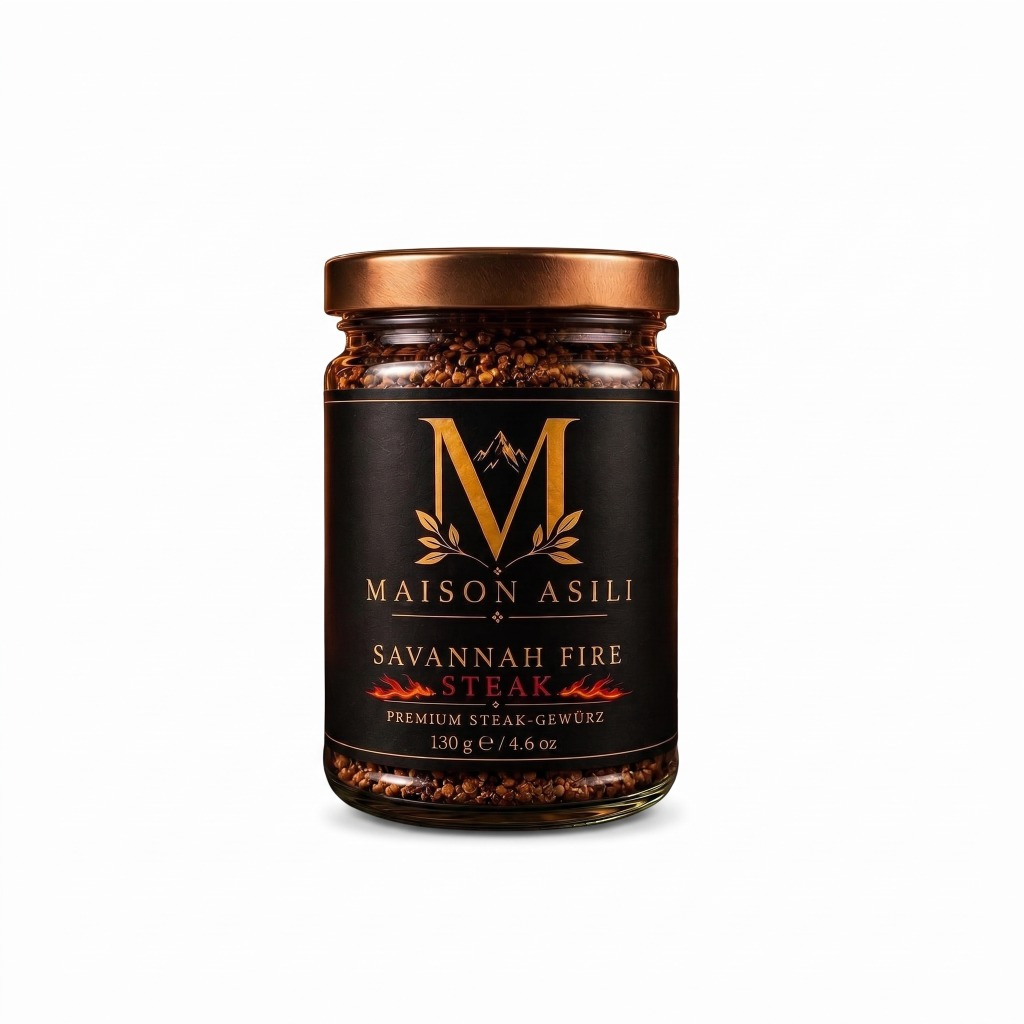
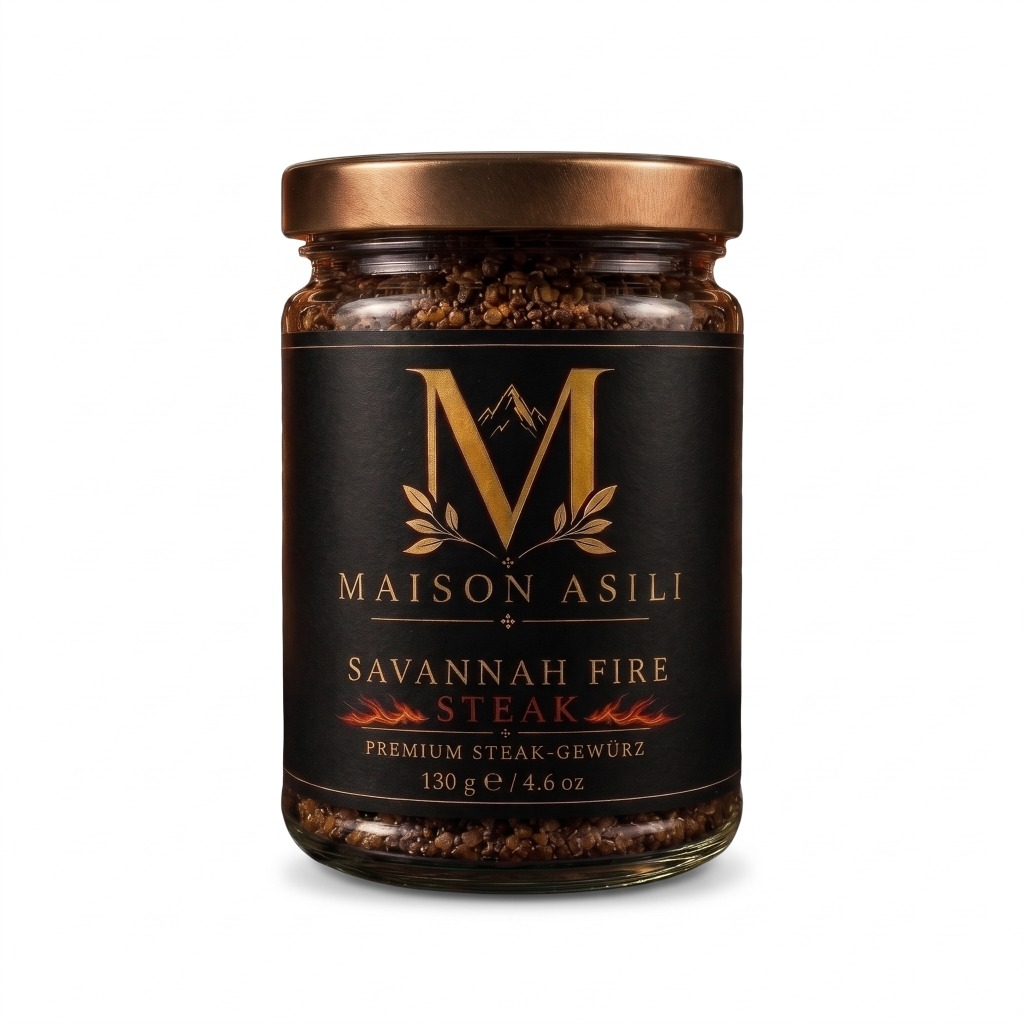
Update Savannah Fire white packshot across all assets and products data

Changed region(s): [[0.25, 0.125, 0.75, 0.9062]]

diff --git a/src/data/products.js b/src/data/products.js
@@ -131,8 +131,8 @@ module.exports = [
     origin: 'African botanicals, blended in Berlin.',
     image: 'assets/img/products/savannah-fire-scenic.jpg',
     imageSource: 'Savannah scenic.jpg',
-    packshot: 'assets/img/products/savannah-fire-actual.jpg',
-    packshotSource: 'Savannah Actual.jpg',
+    packshot: 'assets/img/products/savannah-fire-white.jpg',
+    packshotSource: 'Savannah white.jpg',
     packshotWidth: 1024,
     packshotHeight: 1024,
     imageWidth: 1024,
